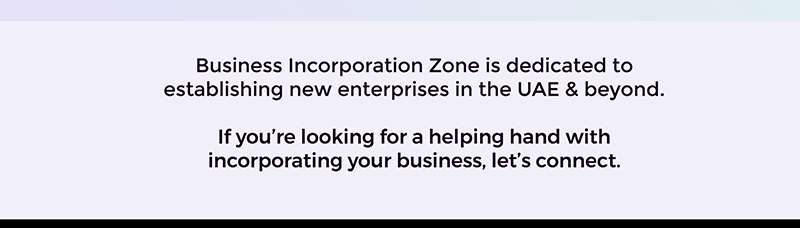
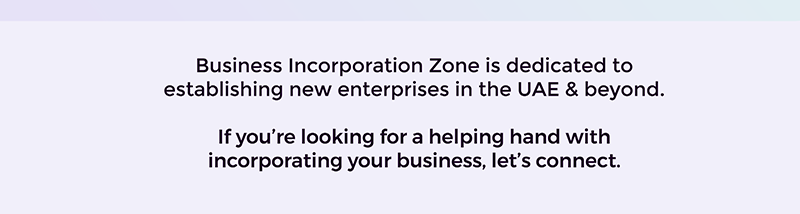
ijas

Changed region(s): [[0.25, 0.5607, 0.7812, 0.8131], [0.1875, 0.2523, 0.8438, 0.4766], [0.0, 0.9533, 1.0, 1.0]]

diff --git a/BIZ-6/index.html b/BIZ-6/index.html
@@ -85,6 +85,20 @@
                                     </a>
                                  </td>
                               </tr>
+                              <tr style="border-collapse:collapse;line-height:0;font-size:0;border:0">
+                                <td style="padding:0;margin:0;line-height:0;font-size:0;border:0" border="0" valign="top" bgcolor="#ffffff"> 
+                                    <a title="Join&nbsp;The&nbsp;UAE&nbsp;Entrepreneur&nbsp;Network" href="#" style="-webkit-text-size-adjust:none;-ms-text-size-adjust:none;mso-line-height-rule:exactly;text-decoration:underline;color:#5C68E2;font-size:14px">
+                                     <img title="Join&nbsp;The&nbsp;UAE&nbsp;Entrepreneur&nbsp;Network" src="Images/67.png" alt="Business Setup in Dubai, UAE | Company Formation Dubai, UAE | BIZ" width="800" style="display:block;border:0;outline:none;text-decoration:none;float:left;line-height:0;font-size:0;border:0;">
+                                    </a>
+                                 </td>
+                              </tr>
+                              <tr style="border-collapse:collapse;line-height:0;font-size:0;border:0">
+                                <td style="padding:0;margin:0;line-height:0;font-size:0;border:0" border="0" valign="top" bgcolor="#ffffff"> 
+                                    <a title="Join&nbsp;The&nbsp;UAE&nbsp;Entrepreneur&nbsp;Network" href="#" style="-webkit-text-size-adjust:none;-ms-text-size-adjust:none;mso-line-height-rule:exactly;text-decoration:underline;color:#5C68E2;font-size:14px">
+                                     <img title="Join&nbsp;The&nbsp;UAE&nbsp;Entrepreneur&nbsp;Network" src="Images/68.png" alt="Business Setup in Dubai, UAE | Company Formation Dubai, UAE | BIZ" width="800" style="display:block;border:0;outline:none;text-decoration:none;float:left;line-height:0;font-size:0;border:0;">
+                                    </a>
+                                 </td>
+                              </tr>
                              <tr style="border-collapse:collapse;line-height:0;font-size:0;border:0">
                                 <td style="padding:0;margin:0;line-height:0;font-size:0;border:0" border="0" valign="top" bgcolor="#000"  align="center"> 
                                     <table cellpadding="0" cellspacing="0" class="es-table-not-adapt es-social" role="presentation" style="mso-table-lspace:0pt;mso-table-rspace:0pt;border-collapse:collapse;border-spacing:0px"> 
